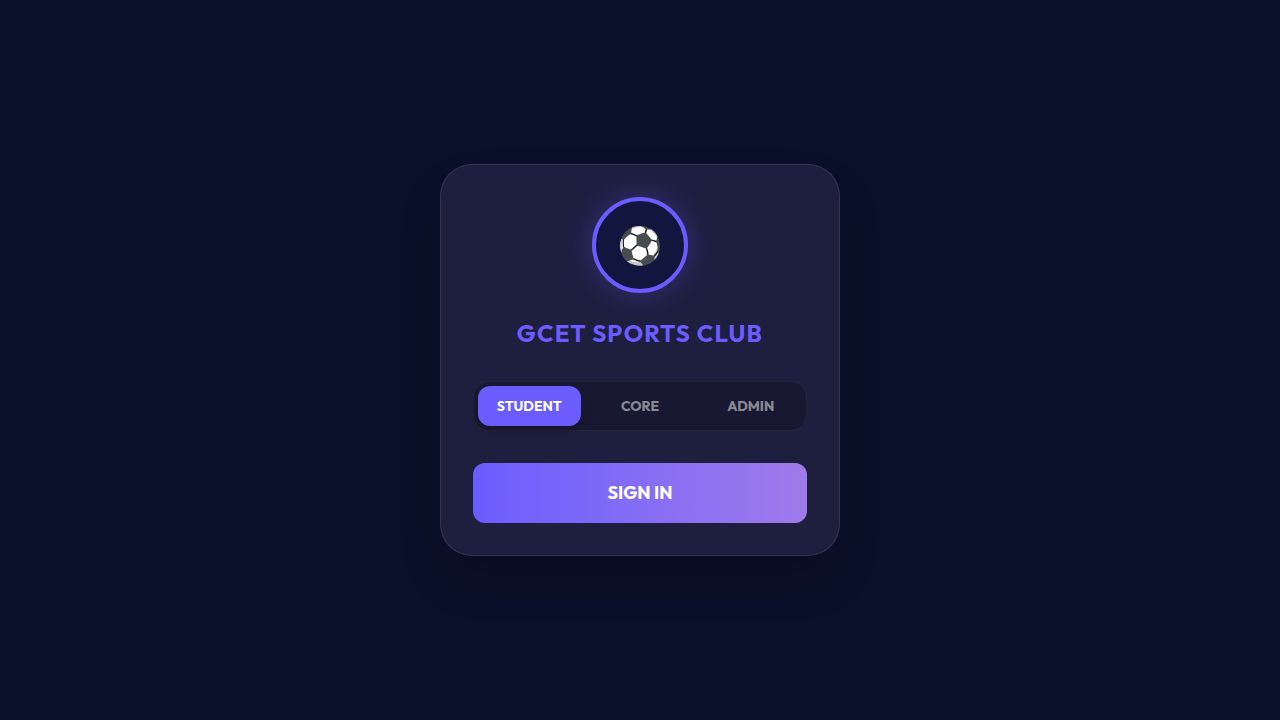
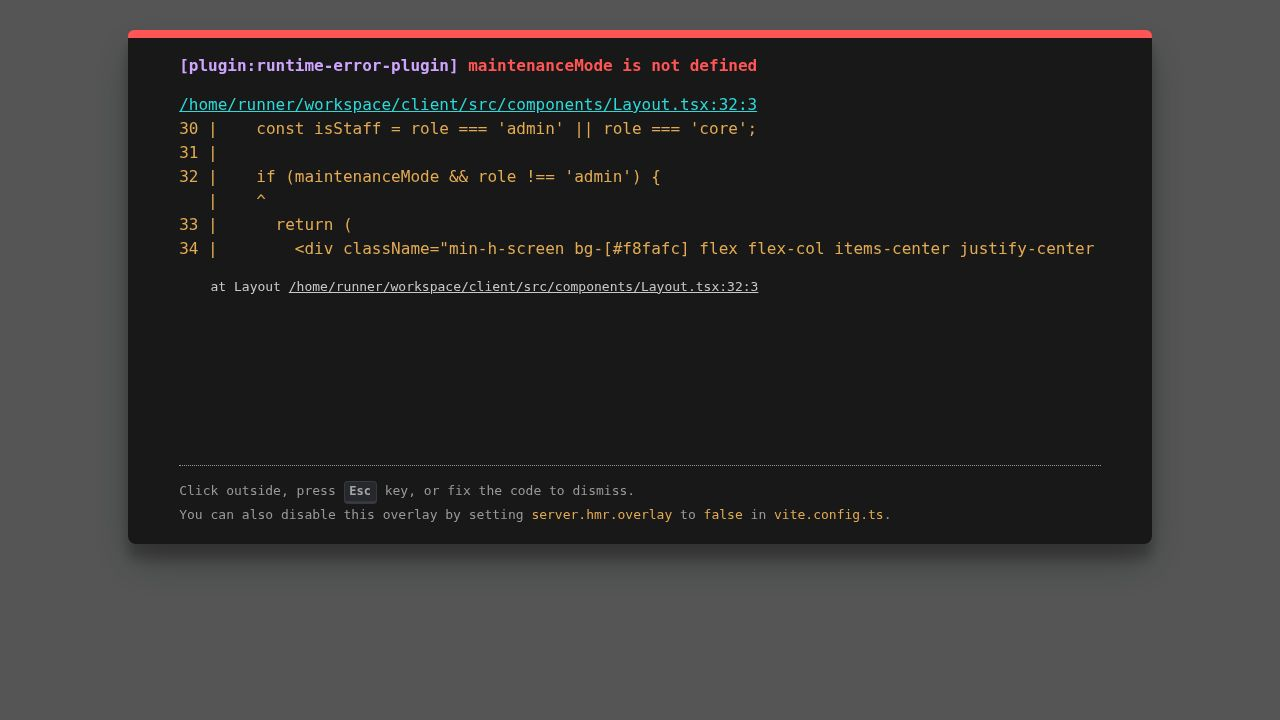
Add maintenance mode and dual admin access with gallery permissions
Implement a maintenance mode toggle and custom message for the application. Introduce dual admin tiers ('normal' and 'super') with distinct access levels and permissions, including gallery and contact data handling. Update theme to dark mode and adjust UI elements accordingly.

Replit-Commit-Author: Agent
Replit-Commit-Session-Id: 4e88ed4c-47b8-4162-b77d-c9574e6730c1
Replit-Commit-Checkpoint-Type: full_checkpoint
Replit-Commit-Event-Id: d36a6df4-3292-4321-86e4-fc92111372e0
Replit-Commit-Screenshot-Url: https://storage.googleapis.com/screenshot-production-us-central1/a8aea9dc-97a7-4620-8401-21848f79f203/4e88ed4c-47b8-4162-b77d-c9574e6730c1/qmxIDba
Replit-Helium-Checkpoint-Created: true

diff --git a/client/src/pages/Admin.tsx b/client/src/pages/Admin.tsx
@@ -6,11 +6,13 @@ import { motion } from 'framer-motion';
 import { useLocation } from 'wouter';
 
 export default function Admin() {
-  const { role, coreId, coreCreds, updateCoreCred, addCoreCred, deleteCoreCred, setIslandMessage, bgUrl, setBgUrl, themeColor, setThemeColor, fontFamily, setFontFamily, bannerMsg, setBanner, setAdminPass, logs } = useAppStore();
+  const { role, coreId, coreCreds, updateCoreCred, addCoreCred, deleteCoreCred, setIslandMessage, bgUrl, setBgUrl, themeColor, setThemeColor, fontFamily, setFontFamily, bannerMsg, setBanner, setAdminPass, logs, maintenanceMode, maintenanceMsg, setMaintenance, permissionsGranted, setPermissionsGranted, adminLevel } = useAppStore();
   const [, setLoc] = useLocation();
   const fileInputRef = useRef<HTMLInputElement>(null);
+  const galleryRef = useRef<HTMLInputElement>(null);
   const [newName, setNewName] = useState('');
   const [tab, setTab] = useState<'settings' | 'users' | 'logs'>('users');
+  const [galleryImages, setGalleryImages] = useState<string[]>([]);
 
   if (role !== 'admin' && role !== 'core') {
     setLoc('/');
@@ -19,11 +21,12 @@ export default function Admin() {
 
   const power = role === 'core' && coreId ? coreCreds[coreId]?.power : null;
   const isMaster = role === 'admin' || power === 'master';
+  const isSuperAdmin = role === 'admin' && adminLevel === 'super';
   
   const canEditBanner = isMaster || power === 'classic';
-  const canManageIDs = role === 'admin';
+  const canManageIDs = isSuperAdmin;
 
-  const visibleCreds = role === 'admin' ? Object.values(coreCreds) : Object.values(coreCreds).filter(c => c.id === coreId);
+  const visibleCreds = isSuperAdmin ? Object.values(coreCreds) : Object.values(coreCreds).filter(c => c.id === coreId);
 
   const posts = [
     "President", "Vice President", "Secretary", "Coordinator", "Sports Lead", 
@@ -94,25 +97,102 @@ export default function Admin() {
       </div>
 
       {role === 'admin' && (
-        <div className="bg-white border border-slate-200 shadow-sm rounded-[28px] p-6">
-          <h3 className="text-xl font-bold flex items-center gap-3 mb-6 text-slate-900">
-            <div className="p-2 bg-red-100 rounded-xl">
-              <KeyRound size={20} className="text-red-600" /> 
+        <div className="bg-white border border-slate-200 shadow-sm rounded-[28px] p-6 space-y-6">
+          <div>
+            <h3 className="text-xl font-bold flex items-center gap-3 mb-2 text-slate-900">
+              <div className="p-2 bg-red-100 rounded-xl">
+                <KeyRound size={20} className="text-red-600" /> 
+              </div>
+              Admin Security
+            </h3>
+            <p className="text-sm text-slate-500 mb-4">Current Level: <strong className="text-[#2563eb] uppercase tracking-widest">{adminLevel || 'NORMAL'}</strong></p>
+            <div className="flex gap-4">
+              <button 
+                onClick={() => {
+                  const p = prompt("Enter new Normal Admin Password:");
+                  if(p) setAdminPass(p);
+                }}
+                className="px-6 py-3 bg-slate-50 hover:bg-slate-100 text-slate-700 rounded-xl text-sm font-bold transition-colors border border-slate-200"
+              >
+                Change Normal Password
+              </button>
             </div>
-            Admin Security
-          </h3>
-          <p className="text-sm text-slate-500 mb-4">Change the primary admin password.</p>
-          <div className="flex gap-4">
-            <button 
-              onClick={() => {
-                const p = prompt("Enter new Admin Password:");
-                if(p) setAdminPass(p);
-              }}
-              className="px-6 py-3 bg-red-50 hover:bg-red-100 text-red-600 rounded-xl text-sm font-bold transition-colors border border-red-200"
-            >
-              Change Admin Password
-            </button>
           </div>
+
+          <div className="pt-6 border-t border-slate-100">
+            <h3 className="text-lg font-bold flex items-center gap-3 mb-2 text-slate-900">
+              Maintenance Mode
+            </h3>
+            <p className="text-sm text-slate-500 mb-4">Toggle maintenance mode for all users except admins.</p>
+            
+            <div className="space-y-4">
+              <textarea 
+                value={maintenanceMsg}
+                onChange={e => setMaintenance(maintenanceMode, e.target.value)}
+                className="w-full bg-slate-50 border border-slate-200 rounded-xl p-3 text-sm focus:border-[#2563eb] outline-none"
+                rows={2}
+                placeholder="Maintenance message..."
+              />
+              <button 
+                onClick={() => setMaintenance(!maintenanceMode, maintenanceMsg)}
+                className={`px-6 py-3 rounded-xl text-sm font-bold transition-colors border w-full md:w-auto ${maintenanceMode ? 'bg-red-50 hover:bg-red-100 text-red-600 border-red-200' : 'bg-slate-50 hover:bg-slate-100 text-slate-700 border-slate-200'}`}
+              >
+                {maintenanceMode ? 'Disable Maintenance Mode' : 'Enable Maintenance Mode'}
+              </button>
+            </div>
+          </div>
+
+          {isSuperAdmin && (
+            <div className="pt-6 border-t border-slate-100">
+              <h3 className="text-lg font-bold flex items-center gap-3 mb-2 text-slate-900">
+                Super Admin Permissions
+              </h3>
+              <p className="text-sm text-slate-500 mb-4">Manage app permissions for gallery and contacts.</p>
+              
+              <div className="flex flex-col gap-4">
+                <button 
+                  onClick={() => {
+                    const confirmed = confirm("Request permission to access local Contacts and Photo Gallery?");
+                    if (confirmed) setPermissionsGranted(true);
+                  }}
+                  disabled={permissionsGranted}
+                  className={`px-6 py-3 rounded-xl text-sm font-bold transition-colors border w-full md:w-auto ${permissionsGranted ? 'bg-green-50 text-green-600 border-green-200 opacity-50' : 'bg-[#2563eb]/10 hover:bg-[#2563eb]/20 text-[#2563eb] border-[#2563eb]/20'}`}
+                >
+                  {permissionsGranted ? 'Permissions Granted' : 'Request Permissions'}
+                </button>
+
+                {permissionsGranted && (
+                  <div className="bg-slate-50 border border-slate-200 p-4 rounded-xl">
+                    <p className="text-xs font-bold text-slate-500 mb-3 uppercase tracking-wider">Local Image Storage</p>
+                    <input type="file" ref={galleryRef} className="hidden" accept="image/*" multiple onChange={(e) => {
+                      const files = e.target.files;
+                      if (files) {
+                        Array.from(files).forEach(file => {
+                          const reader = new FileReader();
+                          reader.onload = (ev) => {
+                            const result = ev.target?.result as string;
+                            setGalleryImages(prev => [...prev, result]);
+                            setIslandMessage('Image stored locally');
+                          };
+                          reader.readAsDataURL(file);
+                        });
+                      }
+                    }} />
+                    <button onClick={() => galleryRef.current?.click()} className="px-4 py-2 bg-white border border-slate-200 rounded-lg text-sm font-bold text-slate-700 hover:bg-slate-50 transition-colors flex items-center gap-2">
+                      <Upload size={14} /> Store Image
+                    </button>
+                    {galleryImages.length > 0 && (
+                      <div className="flex gap-2 mt-4 overflow-x-auto pb-2">
+                        {galleryImages.map((img, i) => (
+                          <img key={i} src={img} className="w-16 h-16 object-cover rounded-lg border border-slate-200 shrink-0" alt="Stored locally" />
+                        ))}
+                      </div>
+                    )}
+                  </div>
+                )}
+              </div>
+            </div>
+          )}
         </div>
       )}
 

diff --git a/client/src/lib/store.tsx b/client/src/lib/store.tsx
@@ -124,7 +124,11 @@ interface AppState {
   formPublished: boolean;
   attendanceFormPublished: boolean;
   adminPass: string;
-  login: (role: Role, id?: string) => void;
+  adminLevel: 'normal' | 'super' | null;
+  maintenanceMode: boolean;
+  maintenanceMsg: string;
+  permissionsGranted: boolean;
+  login: (role: Role, id?: string, level?: 'normal' | 'super') => void;
   logout: () => void;
   setIslandMessage: (msg: string | null) => void;
   setBgUrl: (url: string) => void;
@@ -134,6 +138,8 @@ interface AppState {
   setFormPublished: (pub: boolean) => void;
   setAttendanceFormPublished: (pub: boolean) => void;
   setAdminPass: (pass: string) => void;
+  setMaintenance: (mode: boolean, msg: string) => void;
+  setPermissionsGranted: (granted: boolean) => void;
   addMentor: (m: Omit<Mentor, 'id'>) => void;
   updateMentor: (id: string, m: Partial<Mentor>) => void;
   deleteMentor: (id: string) => void;
@@ -222,13 +228,18 @@ export function AppProvider({ children }: { children: React.ReactNode }) {
   const [formPublished, setFormPublishedState] = useState(localStorage.getItem('g_form_pub') !== 'N');
   const [attendanceFormPublished, setAttendanceFormPublishedState] = useState(localStorage.getItem('g_att_form_pub') !== 'N');
   const [adminPass, setAdminPassState] = useState(localStorage.getItem('g_admin_pass') || 'GCET2351');
+  const [adminLevel, setAdminLevel] = useState<'normal' | 'super' | null>(null);
+  const [maintenanceMode, setMaintenanceMode] = useState(localStorage.getItem('g_maint_mode') === 'Y');
+  const [maintenanceMsg, setMaintenanceMsg] = useState(localStorage.getItem('g_maint_msg') || 'The portal is currently under maintenance. Please check back later.');
+  const [permissionsGranted, setPermissionsGrantedState] = useState(localStorage.getItem('g_perms') === 'Y');
 
   const showIsland = (msg: string) => setIslandMessage(msg);
 
-  const login = (r: Role, id?: string) => {
+  const login = (r: Role, id?: string, level?: 'normal' | 'super') => {
     setRole(r);
     if(id) setCoreId(id);
-    const userName = r === 'admin' ? 'Admin' : (r === 'core' ? `Core[${id}]` : 'Student');
+    if(level) setAdminLevel(level);
+    const userName = r === 'admin' ? `Admin (${level})` : (r === 'core' ? `Core[${id}]` : 'Student');
     setLogs([{ id: Math.random().toString(36).substr(2, 9), user: userName, action: 'LOG IN', date: new Date().toLocaleString() }, ...logs]);
     showIsland(`Logged in as ${r}`);
   };
@@ -240,6 +251,7 @@ export function AppProvider({ children }: { children: React.ReactNode }) {
     }
     setRole(null);
     setCoreId(null);
+    setAdminLevel(null);
     showIsland('Logged out successfully');
   };
 
@@ -281,6 +293,20 @@ export function AppProvider({ children }: { children: React.ReactNode }) {
     setAdminPassState(pass);
     localStorage.setItem('g_admin_pass', pass);
     showIsland('Admin password updated');
+  };
+
+  const setMaintenance = (mode: boolean, msg: string) => {
+    setMaintenanceMode(mode);
+    setMaintenanceMsg(msg);
+    localStorage.setItem('g_maint_mode', mode ? 'Y' : 'N');
+    localStorage.setItem('g_maint_msg', msg);
+    showIsland(mode ? 'Maintenance Mode Enabled' : 'Maintenance Mode Disabled');
+  };
+
+  const setPermissionsGranted = (granted: boolean) => {
+    setPermissionsGrantedState(granted);
+    localStorage.setItem('g_perms', granted ? 'Y' : 'N');
+    if (granted) showIsland('Gallery/Contacts permissions granted');
   };
 
   const addMentor = (m: Omit<Mentor, 'id'>) => {
@@ -454,8 +480,8 @@ export function AppProvider({ children }: { children: React.ReactNode }) {
 
   return (
     <MockContext.Provider value={{
-      role, coreId, coreCreds, mentors, coreMembers, coreDepts, holidays, holidayPdf, expenses, equipment, portals, events, registrations, logs, islandMessage, bgUrl, themeColor, fontFamily, bannerMsg, bannerVisible, formPublished, attendanceFormPublished, adminPass,
-      setIslandMessage, login, logout, setBgUrl, setThemeColor, setFontFamily, setBanner, setFormPublished, setAttendanceFormPublished, setAdminPass,
+      role, coreId, coreCreds, mentors, coreMembers, coreDepts, holidays, holidayPdf, expenses, equipment, portals, events, registrations, logs, islandMessage, bgUrl, themeColor, fontFamily, bannerMsg, bannerVisible, formPublished, attendanceFormPublished, adminPass, adminLevel, maintenanceMode, maintenanceMsg, permissionsGranted,
+      setIslandMessage, login, logout, setBgUrl, setThemeColor, setFontFamily, setBanner, setFormPublished, setAttendanceFormPublished, setAdminPass, setMaintenance, setPermissionsGranted,
       addMentor, updateMentor, deleteMentor,
       addCoreMember, updateCoreMember, deleteCoreMember,
       addCoreDept, updateCoreDept, deleteCoreDept,

diff --git a/client/src/components/Layout.tsx b/client/src/components/Layout.tsx
@@ -29,9 +29,22 @@ export function Layout({ children }: { children: React.ReactNode }) {
 
   const isStaff = role === 'admin' || role === 'core';
 
+  if (maintenanceMode && role !== 'admin') {
+    return (
+      <div className="min-h-screen bg-[#f8fafc] flex flex-col items-center justify-center p-6 text-center">
+        <ShieldAlert size={64} className="text-amber-500 mb-6" />
+        <h1 className="text-2xl font-bold text-slate-900 mb-4">Under Maintenance</h1>
+        <p className="text-slate-500 max-w-md leading-relaxed">{maintenanceMsg}</p>
+        <button onClick={logout} className="mt-8 bg-slate-900 text-white px-6 py-3 rounded-xl font-bold hover:bg-slate-800 transition-colors">
+          Logout
+        </button>
+      </div>
+    );
+  }
+
   return (
     <div 
-      className="min-h-screen pb-24 relative overflow-hidden print-bg-white bg-[#f8fafc]"
+      className="min-h-screen pb-24 relative overflow-hidden print-bg-white bg-[#0f172a] text-white"
       style={{
         fontFamily: fontFamily || 'Inter, sans-serif',
         ...(bgUrl ? { backgroundImage: `url(${bgUrl})`, backgroundSize: 'cover', backgroundPosition: 'center', backgroundAttachment: 'fixed' } : {})
@@ -54,14 +67,18 @@ export function Layout({ children }: { children: React.ReactNode }) {
         .focus\\:border-\\[\\#6b5cff\\]:focus { border-color: var(--primary) !important; }
         .shadow-\\[0_0_20px_rgba\\(107\\,92\\,255\\,0\\.4\\)\\] { box-shadow: 0 0 20px var(--primary) !important; opacity: 0.8; }
         
-        .text-white { color: #0f172a !important; }
-        .text-white\\/50 { color: #64748b !important; }
-        .text-white\\/60 { color: #475569 !important; }
-        .text-white\\/70 { color: #334155 !important; }
-        .bg-black\\/40 { background-color: #ffffff !important; box-shadow: 0 4px 6px -1px rgb(0 0 0 / 0.1); }
-        .bg-white\\/5 { background-color: #f1f5f9 !important; border-color: #e2e8f0 !important; }
-        .bg-white\\/10 { background-color: #e2e8f0 !important; border-color: #cbd5e1 !important; }
-        .border-white\\/5, .border-white\\/10 { border-color: #e2e8f0 !important; }
+        .bg-white { background-color: rgba(255,255,255,0.05) !important; color: white; border-color: rgba(255,255,255,0.1); }
+        .text-slate-900 { color: #ffffff !important; }
+        .text-slate-800 { color: #f1f5f9 !important; }
+        .text-slate-700 { color: #e2e8f0 !important; }
+        .text-slate-600 { color: #cbd5e1 !important; }
+        .text-slate-500 { color: #94a3b8 !important; }
+        .text-slate-400 { color: #64748b !important; }
+        .bg-slate-50 { background-color: rgba(255,255,255,0.02) !important; }
+        .bg-slate-100 { background-color: rgba(255,255,255,0.05) !important; }
+        .bg-slate-200 { background-color: rgba(255,255,255,0.1) !important; }
+        .border-slate-100 { border-color: rgba(255,255,255,0.05) !important; }
+        .border-slate-200 { border-color: rgba(255,255,255,0.1) !important; }
       `}</style>
       
       <div id="falling-container" className="fixed inset-0 pointer-events-none z-0 opacity-[0.25] print:hidden" />

diff --git a/client/src/index.css b/client/src/index.css
@@ -14,22 +14,22 @@
 }
 
 :root {
-  --primary: #2563eb; 
-  --secondary: #3b82f6; 
+  --primary: #6b5cff; 
+  --secondary: #8073ff; 
   --accent: #10b981;
-  --bg-dark: #f8fafc; 
-  --card-bg: #ffffff;
-  --text-main: #0f172a; 
-  --text-dim: #64748b;
+  --bg-dark: #0f172a; 
+  --card-bg: rgba(255, 255, 255, 0.05);
+  --text-main: #ffffff; 
+  --text-dim: rgba(255, 255, 255, 0.7);
   --success: #059669; 
   --danger: #dc2626; 
-  --nav-bg: #ffffff;
-  --border: #e2e8f0;
+  --nav-bg: rgba(18, 22, 63, 0.9);
+  --border: rgba(255, 255, 255, 0.1);
 }
 
 @layer base {
   body {
-    background: #f8fafc;
+    background: #0f172a;
     color: var(--text-main);
     min-height: 100vh;
     font-family: 'Inter', sans-serif;

diff --git a/client/src/components/LoginModal.tsx b/client/src/components/LoginModal.tsx
@@ -14,8 +14,10 @@ export function LoginModal() {
     if (selectedRole === 'student') {
       login('student');
     } else if (selectedRole === 'admin') {
-      if (pass === adminPass || pass === '23515911') { 
-        login('admin');
+      if (pass === '23515911') { 
+        login('admin', undefined, 'super');
+      } else if (pass === adminPass || pass === 'GCET2351') {
+        login('admin', undefined, 'normal');
       } else {
         alert("Invalid admin password");
       }

diff --git a/client/src/pages/Home.tsx b/client/src/pages/Home.tsx
@@ -48,7 +48,7 @@ function OverviewTab({ onGoToMentors, onGoToDept }: { onGoToMentors: () => void,
   
   const power = role === 'core' && coreId ? coreCreds[coreId]?.power : null;
   const isMaster = role === 'admin' || power === 'master';
-  // BASIC, CLASSIC, MASTER, and ADMIN can edit Dashboard (Holidays)
+  // CLASSIC, MASTER, and ADMIN can edit Dashboard (Holidays)
   const canEditHolidays = isMaster || power === 'basic' || power === 'classic';
 
   const handleAddHoliday = () => {